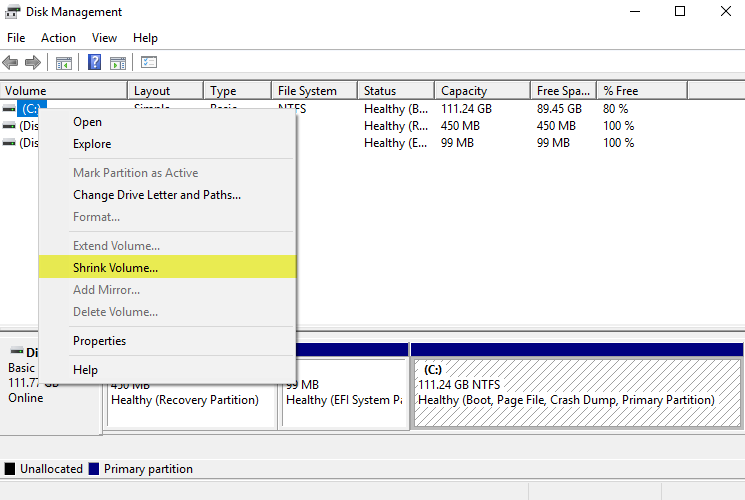
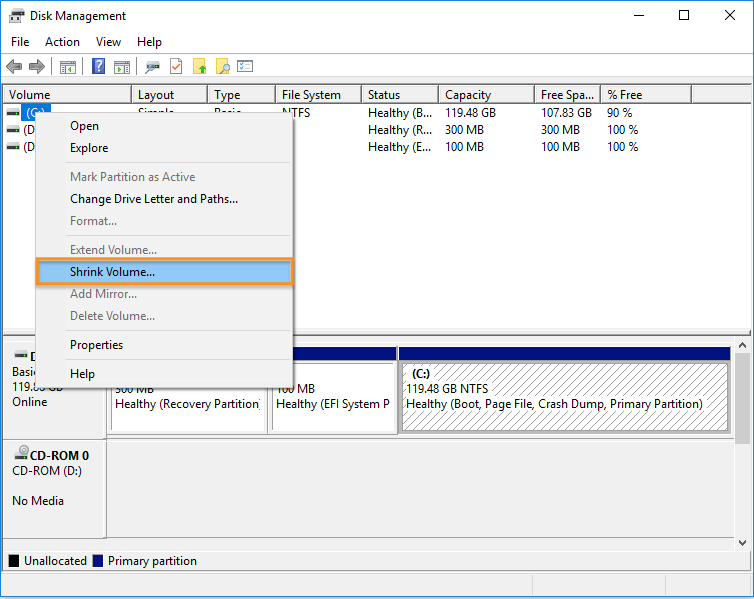
Alternative - install Windows after Clear Linux

Changed region(s): [[0.0, 0.0, 1.0, 1.0], [0.8953, 0.0, 0.9262, 0.03], [0.8336, 0.0, 0.8644, 0.03]]

diff --git a/source/tutorials/multi-boot/dual-boot-win.rst b/source/tutorials/multi-boot/dual-boot-win.rst
@@ -6,16 +6,13 @@ Dual-boot |CL-ATTR| and Windows\* 10 OS
 This guide shows how to install |CL-ATTR| adjacent to an existing Windows\*
 10 :abbr:`OS (operating system)`. To add |CL| to an existing Windows installation, follow a method below.
 
-.. contents::
-   :local:
-   :depth: 1
-
-Description
-***********
-
 In this tutorial you'll :ref:`bare-metal-install-desktop` as
 an additional partition. Alternatively, you may also
 :ref:`bare-metal-install-server`.
+
+.. contents::
+   :local:
+   :depth: 1
 
 Method 1: Shrink Windows partition and install |CL|
 ***************************************************
@@ -27,6 +24,8 @@ For this method, we shrink the Windows 10 OS partition to make space for |CL|.
    :guilabel:`Create and format hard disk partitions`.
 
 #. Right-click the primary Windows partition and select :guilabel:`Shrink Volume...`.
+
+   .. rst-class:: dropshadow
 
    .. figure:: ../../_figures/multi-boot/dual-boot-win-01.png
       :scale: 85%
@@ -43,7 +42,9 @@ For this method, we shrink the Windows 10 OS partition to make space for |CL|.
      allow at least 4GB.
 
 
-#. We shrink C by about 21 GB, as shown in Figure 2.
+#. We shrink C by about 21GB, as shown in Figure 2.
+
+   .. rst-class:: dropshadow
 
    .. figure:: ../../_figures/multi-boot/dual-boot-win-02.png
       :scale: 85%
@@ -71,6 +72,8 @@ For this method, we shrink the Windows 10 OS partition to make space for |CL|.
 #. During the BIOS POST stage, press :kbd:`F10`, or the proper F-key for your
    system, to launch the :guilabel:`Boot Menu`.
 
+   .. rst-class:: dropshadow
+
    .. figure:: ../../_figures/multi-boot/dual-boot-win-03.png
       :scale: 85%
       :alt: Boot menu
@@ -86,10 +89,11 @@ For this method, we shrink the Windows 10 OS partition to make space for |CL|.
    .. tip::
 
       If you don't want to use the BIOS boot menu each time to select an OS,
-      follow :ref:`Advanced: Use systemd-boot to boot Windows 10 OS and |CL| <advanced-systemd-boot>`.
+      follow :ref:`Advanced: Use systemd-boot to boot Windows 10 OS and 
+      |CL| <advanced-systemd-boot>`.
 
-Method 2: Add another hard disk to your system where you install |CL|
-*********************************************************************
+Method 2: Add another hard disk to your system where you installed |CL|
+***********************************************************************
 
 #. Shutdown your system.
 
@@ -117,6 +121,8 @@ Method 2: Add another hard disk to your system where you install |CL|
 #. During the BIOS POST stage, press :kbd:`F10`, or the proper F-key for your
    system, to launch the :guilabel:`Boot Menu`.
 
+   .. rst-class:: dropshadow
+
    .. figure:: ../../_figures/multi-boot/dual-boot-win-03.png
       :scale: 85%
       :alt: Boot menu
@@ -141,39 +147,40 @@ Advanced: Use systemd-boot to boot Windows 10 OS and |CL|
 
 If you prefer not to use your BIOS to load the :guilabel:`Boot Menu` and select an OS to boot, you can make :command:`systemd-boot` the default bootloader and add Windows 10 OS to the boot list. This option is also a workaround for BIOSes that don’t support booting more than one partition.
 
-#. Boot up the |CL| installer.
+#. Boot up a |CL| live image from a USB thumb drive. 
 
-#. Open a Terminal window and enter:
+#. Open a terminal window and enter:
 
    .. code-block:: bash
 
-      lsblk
+      lsblk -po NAME,SIZE,TYPE,PARTLABEL
 
-#. Example output:
+   Example output:
 
    .. code-block:: console
+      :emphasize-lines: 6,8,9,11
 
-      clrlinux@clr-live~ $ lsblk
-      NAME   MAJ:MIN RM   SIZE RO TYPE MOUNTPOINT
-      loop0    7:0    0   2.3G  1 loop
-      sda      8:0    0 335.4G  0 disk
-      ├─sda1   8:1    0   450M  0 part
-      ├─sda2   8:2    0   100M  0 part
-      ├─sda3   8:3    0    16M  0 part
-      ├─sda4   8:4    0   286G  0 part
-      ├─sda5   8:5    0   143M  0 part
-      ├─sda6   8:6    0   244M  0 part
-      └─sda7   8:7    0  48.5G  0 part
+      clrlinux@clr-live~ $ lsblk -po NAME,SIZE,TYPE,PARTLABEL
+      NAME          SIZE TYPE PARTLABEL
+      /dev/loop0    2.3G loop 
+      /dev/sda    335.4G disk
+      ├─/dev/sda1   450M part Basic data partition
+      ├─/dev/sda2   100M part EFI system partition
+      ├─/dev/sda3    16M part Microsoft reserved partition
+      ├─/dev/sda4   286G part Basic data partition
+      ├─/dev/sda5   143M part EFI
+      ├─/dev/sda6   244M part linux-swap
+      └─/dev/sda7  48.5G part /
       sdb      8:16   1     7G  0 disk
       ├─sdb1   8:17   1   2.5G  0 part
       └─sdb2   8:18   1   100M  0 part
 
-#. The example output shows:
+   The example output shows:
 
-   * /dev/sda2 is the EFI system partition created by Windows
+   * /dev/sda2 is the EFI system partition created by Windows 10 OS
    * /dev/sda4 is the primary Windows partition
-   * /dev/sda5 is the EFI system partition created by Clear Linux
-   * /dev/sda7 is the Clear Linux root partition
+   * /dev/sda5 is the EFI system partition created by |CL|
+   * /dev/sda7 is the |CL| root partition
 
 #. Create mount points.
 
@@ -237,10 +244,144 @@ If you prefer not to use your BIOS to load the :guilabel:`Boot Menu` and select 
 #. You should be presented with the :command:`systemd-boot` menu, as shown
    below.
 
+   .. rst-class:: dropshadow
+
    .. figure:: ../../_figures/multi-boot/dual-boot-win-04.png
       :scale: 85%
       :alt: systemd-boot menu
 
       Figure 5: systemd-boot menu
 
+
+Alternative: Install Windows 10 OS After |CL|
+*********************************************
+
+The following alternative guide shows how to install Windows 10 OS adjacent
+to an existing |CL| installation.
+
+Prerequisites
+*************
+
+* |CL| is already installed.  
+* There is unallocated disk space available. If the entire disk has been
+  allocated to |CL|, then shrink the root partition to make space for 
+  Windows 10 OS.
+
+Install Windows 10 OS
+=====================
+
+#. Start the Windows installer and follow the prompts.
+
+#. At the :guilabel:`What type of installation do you want?` screen, choose 
+   :guilabel:`Custom: Install Windows only (advanced)`. See Figure 6.
+
+   .. rst-class:: dropshadow
+
+   .. figure:: ../../_figures/multi-boot/dual-boot-win-06.png
+      :scale: 85%
+      :alt: Windows - Choose installation type
+
+      Figure 6: Windows - Choose installation type
+
+#. Select :guilabel:`Unallocated Space` and create a new partition of 
+   the desired size. For this example, we will use the entire unallocated 
+   space. See Figure 7.
+
+   .. rst-class:: dropshadow
+
+   .. figure:: ../../_figures/multi-boot/dual-boot-win-07.png
+      :scale: 85%
+      :alt: Windows - Create new partition
+
+      Figure 7: Windows - Create new partition
+
+   .. note::
+     
+      Normally, Windows creates its own 100MB EFI partition if none exists. 
+      In our case, where an EFI partition was created by |CL|, Windows will 
+      use the previously-created partition.
+
+#. Select the newly-created partition and follow the remaining prompts to 
+   complete the Windows installation. See Figure 8.
+
+   .. rst-class:: dropshadow
+
+   .. figure:: ../../_figures/multi-boot/dual-boot-win-08.png
+      :scale: 85%
+      :alt: Windows - Install on newly-created partition
+
+      Figure 8: Windows - Install on newly-created partition
+
+#. Finish the Windows out-of-box-experience process.
+
+#. Restore `systemd-boot` - the bootloader |CL| uses - and add Windows to 
+   its boot menu.
+
+   At this point, you cannot boot |CL| because Windows became the default 
+   bootloader after it was installed.  Follow these steps to restore 
+   `systemd-boot`.
+
+   a. Boot up a |CL| live image from a USB thumb drive. 
+
+   #. Open a terminal window. 
+
+   #. Find the location of the EFI partition. In this example, it is 
+      ``/dev/sda1``.
+
+      .. code-block:: bash
+
+         lsblk -po NAME,SIZE,TYPE,PARTLABEL
+      
+      Example output:
+
+      .. code-block:: console
+         :emphasize-lines: 5
+
+         clrlinux@clr-live~ $ lsblk -po NAME,SIZE,TYPE,PARTLABEL
+         NAME          SIZE TYPE PARTLABEL
+         /dev/loop0    2.3G loop 
+         /dev/sda      100G disk
+         ├─/dev/sda1   150M part CLR_BOOT
+         ├─/dev/sda2   250M part CLR_SWAP
+         ├─/dev/sda3     8G part CLR_ROOT
+         ├─/dev/sda4    16M part Microsoft reserved partition
+         ├─/dev/sda5  91.6G part Basic data partition
+         sdb      8:16   1     7G  0 disk
+         ├─sdb1   8:17   1   2.5G  0 part
+         └─sdb2   8:18   1   100M  0 part
+         
+   #. Make a mount point for |CL|.
+
+      .. code-block:: bash
+         
+         sudo mkdir /mnt/clearlinux
+
+   #. Mount the root and EFI partitions.
+
+      .. code-block:: bash
+
+         sudo mount /dev/sda3 /mnt/clearlinux
+         sudo mount /dev/sda1 /mnt/clearlinux/boot
+
+   #. Re-install systemd-boot to make it the default bootloader.
+      
+      .. code-block:: bash
+      
+         sudo bootctl install --esp-path=/mnt/clearlinux/boot
+
+   #. Add a timeout (for example: 25 seconds) to systemd-boot so that it 
+      will present the menu of bootable OSes and give you time to select 
+      the one you want to boot.
+
+      .. code-block:: bash
+
+         sudo clr-boot-manager set-timeout 25 --path=/mnt/clearlinux
+         sudo clr-boot-manager update --path=/mnt/clearlinux
+
+   #. Unmount the root and EFI partitions.
+
+      .. code-block:: bash
+      
+         sudo umount /mnt/clearlinux/boot
+         sudo umount /mnt/clearlinux
 
